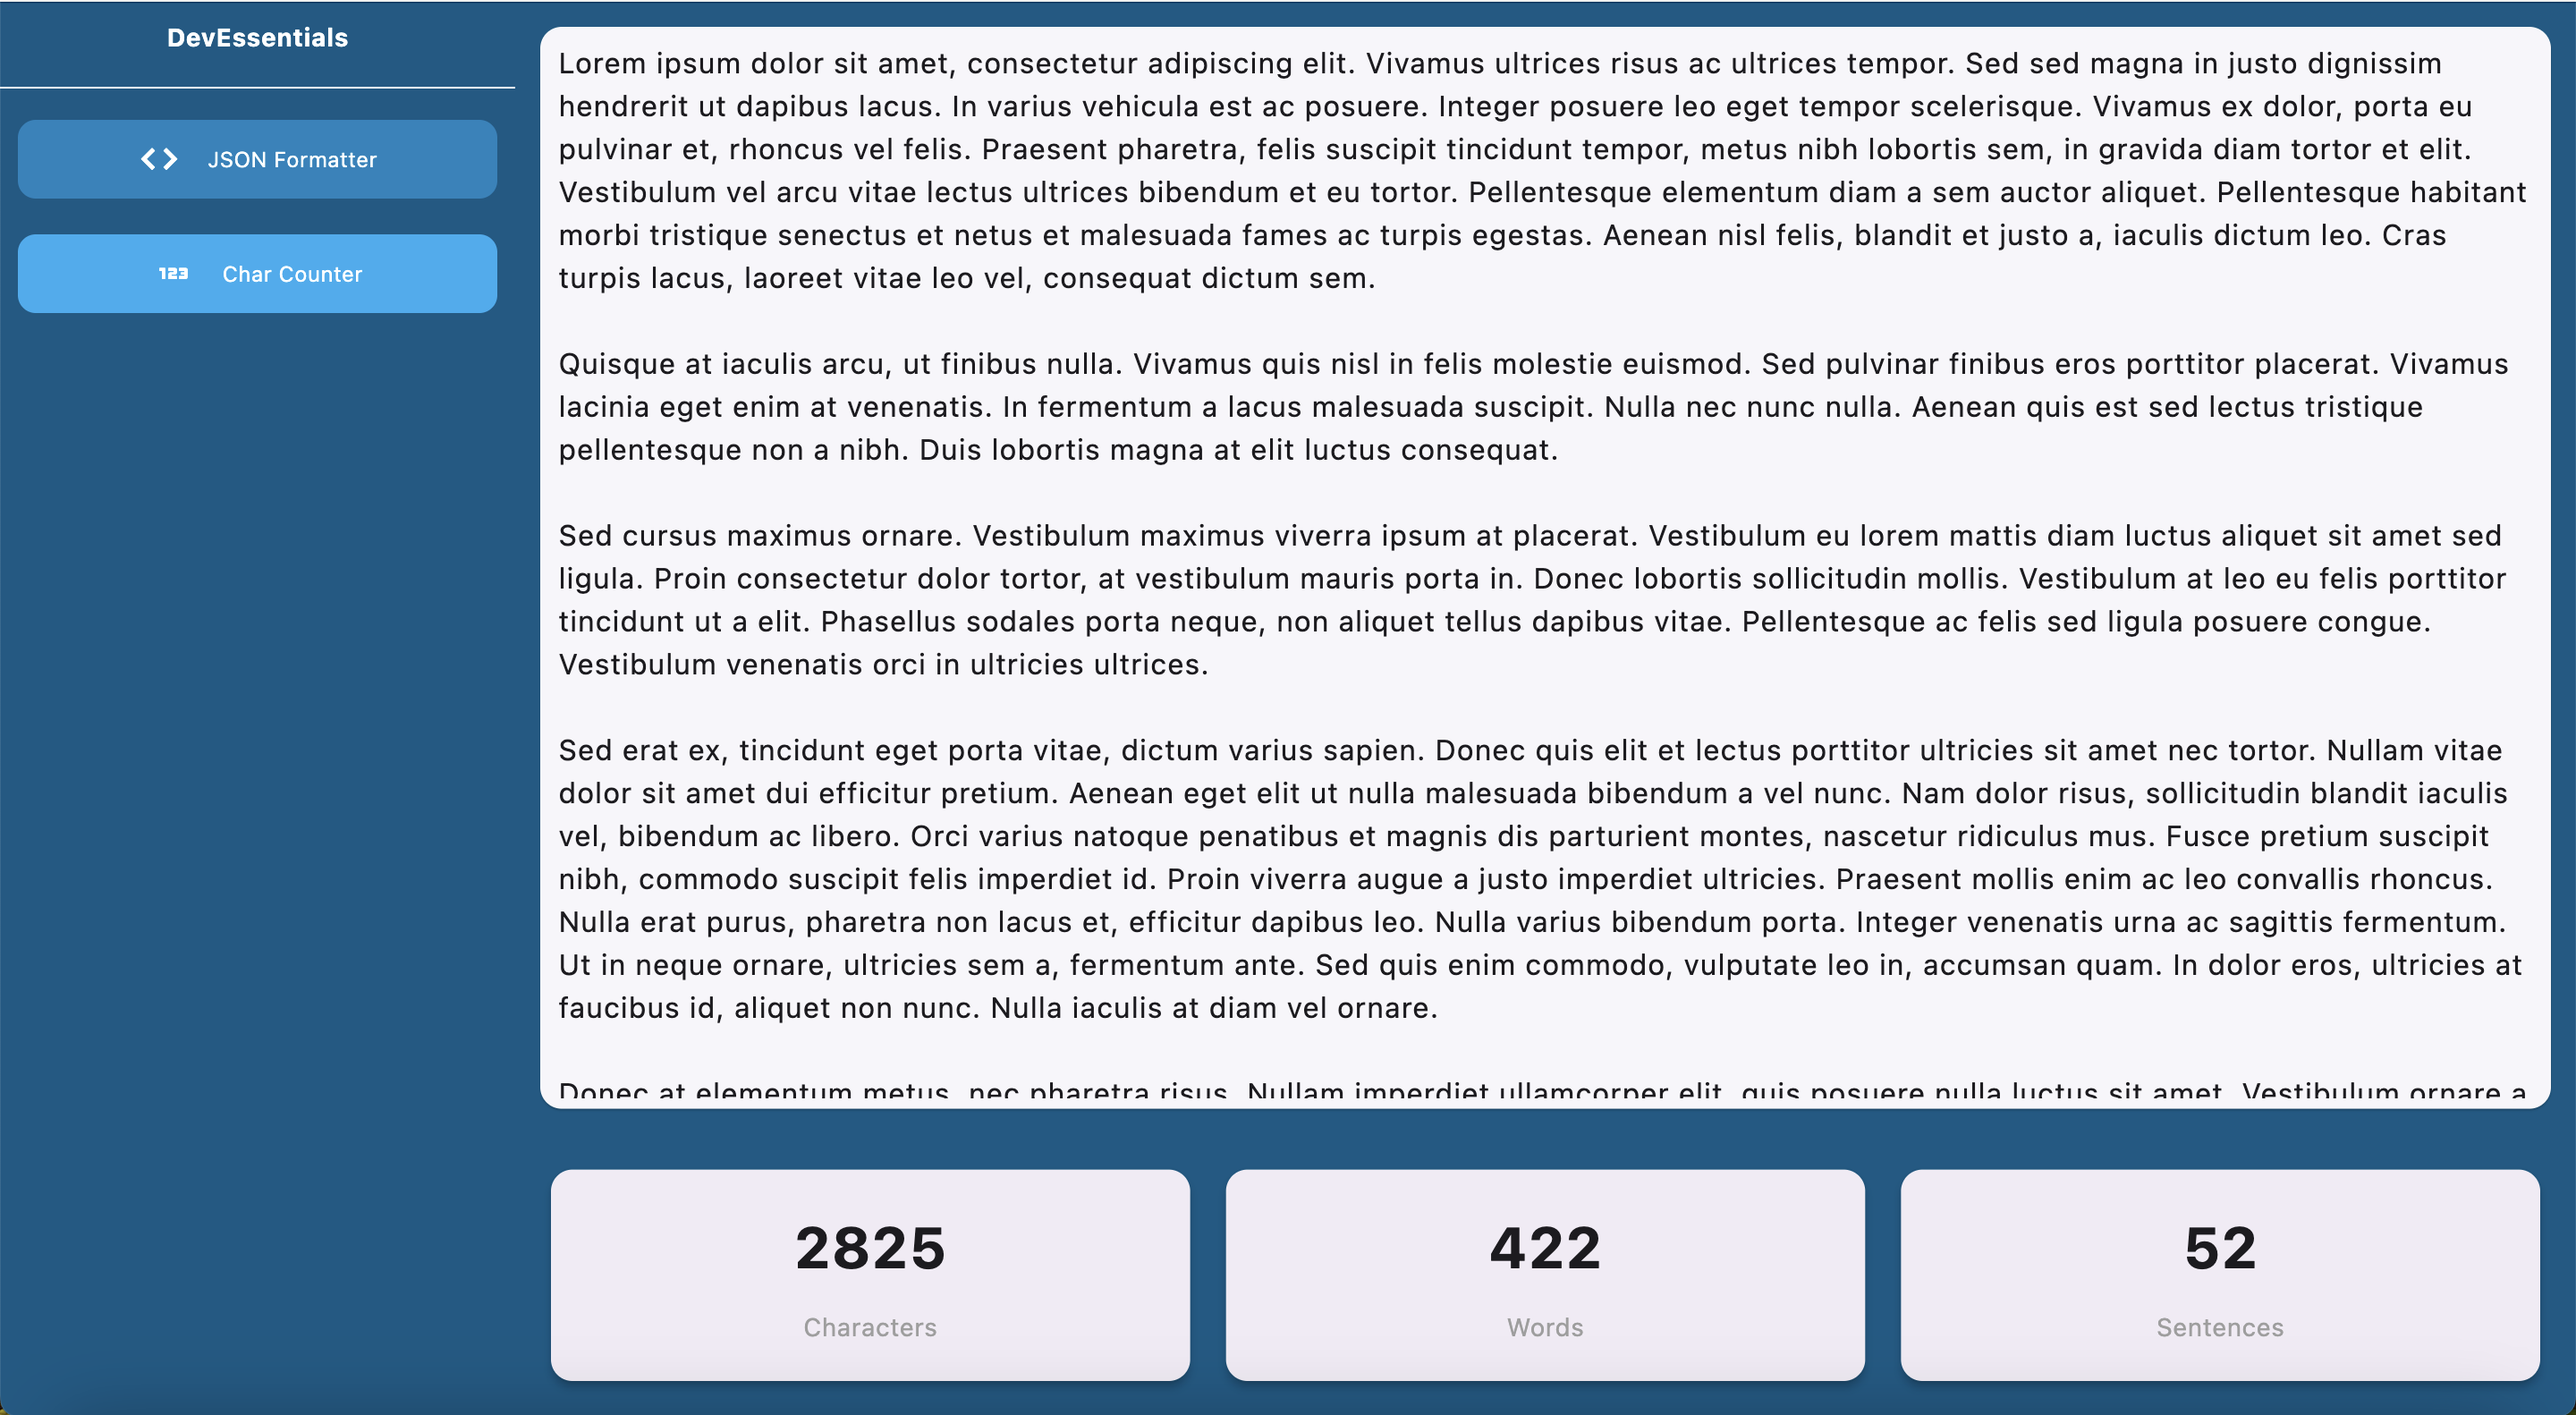
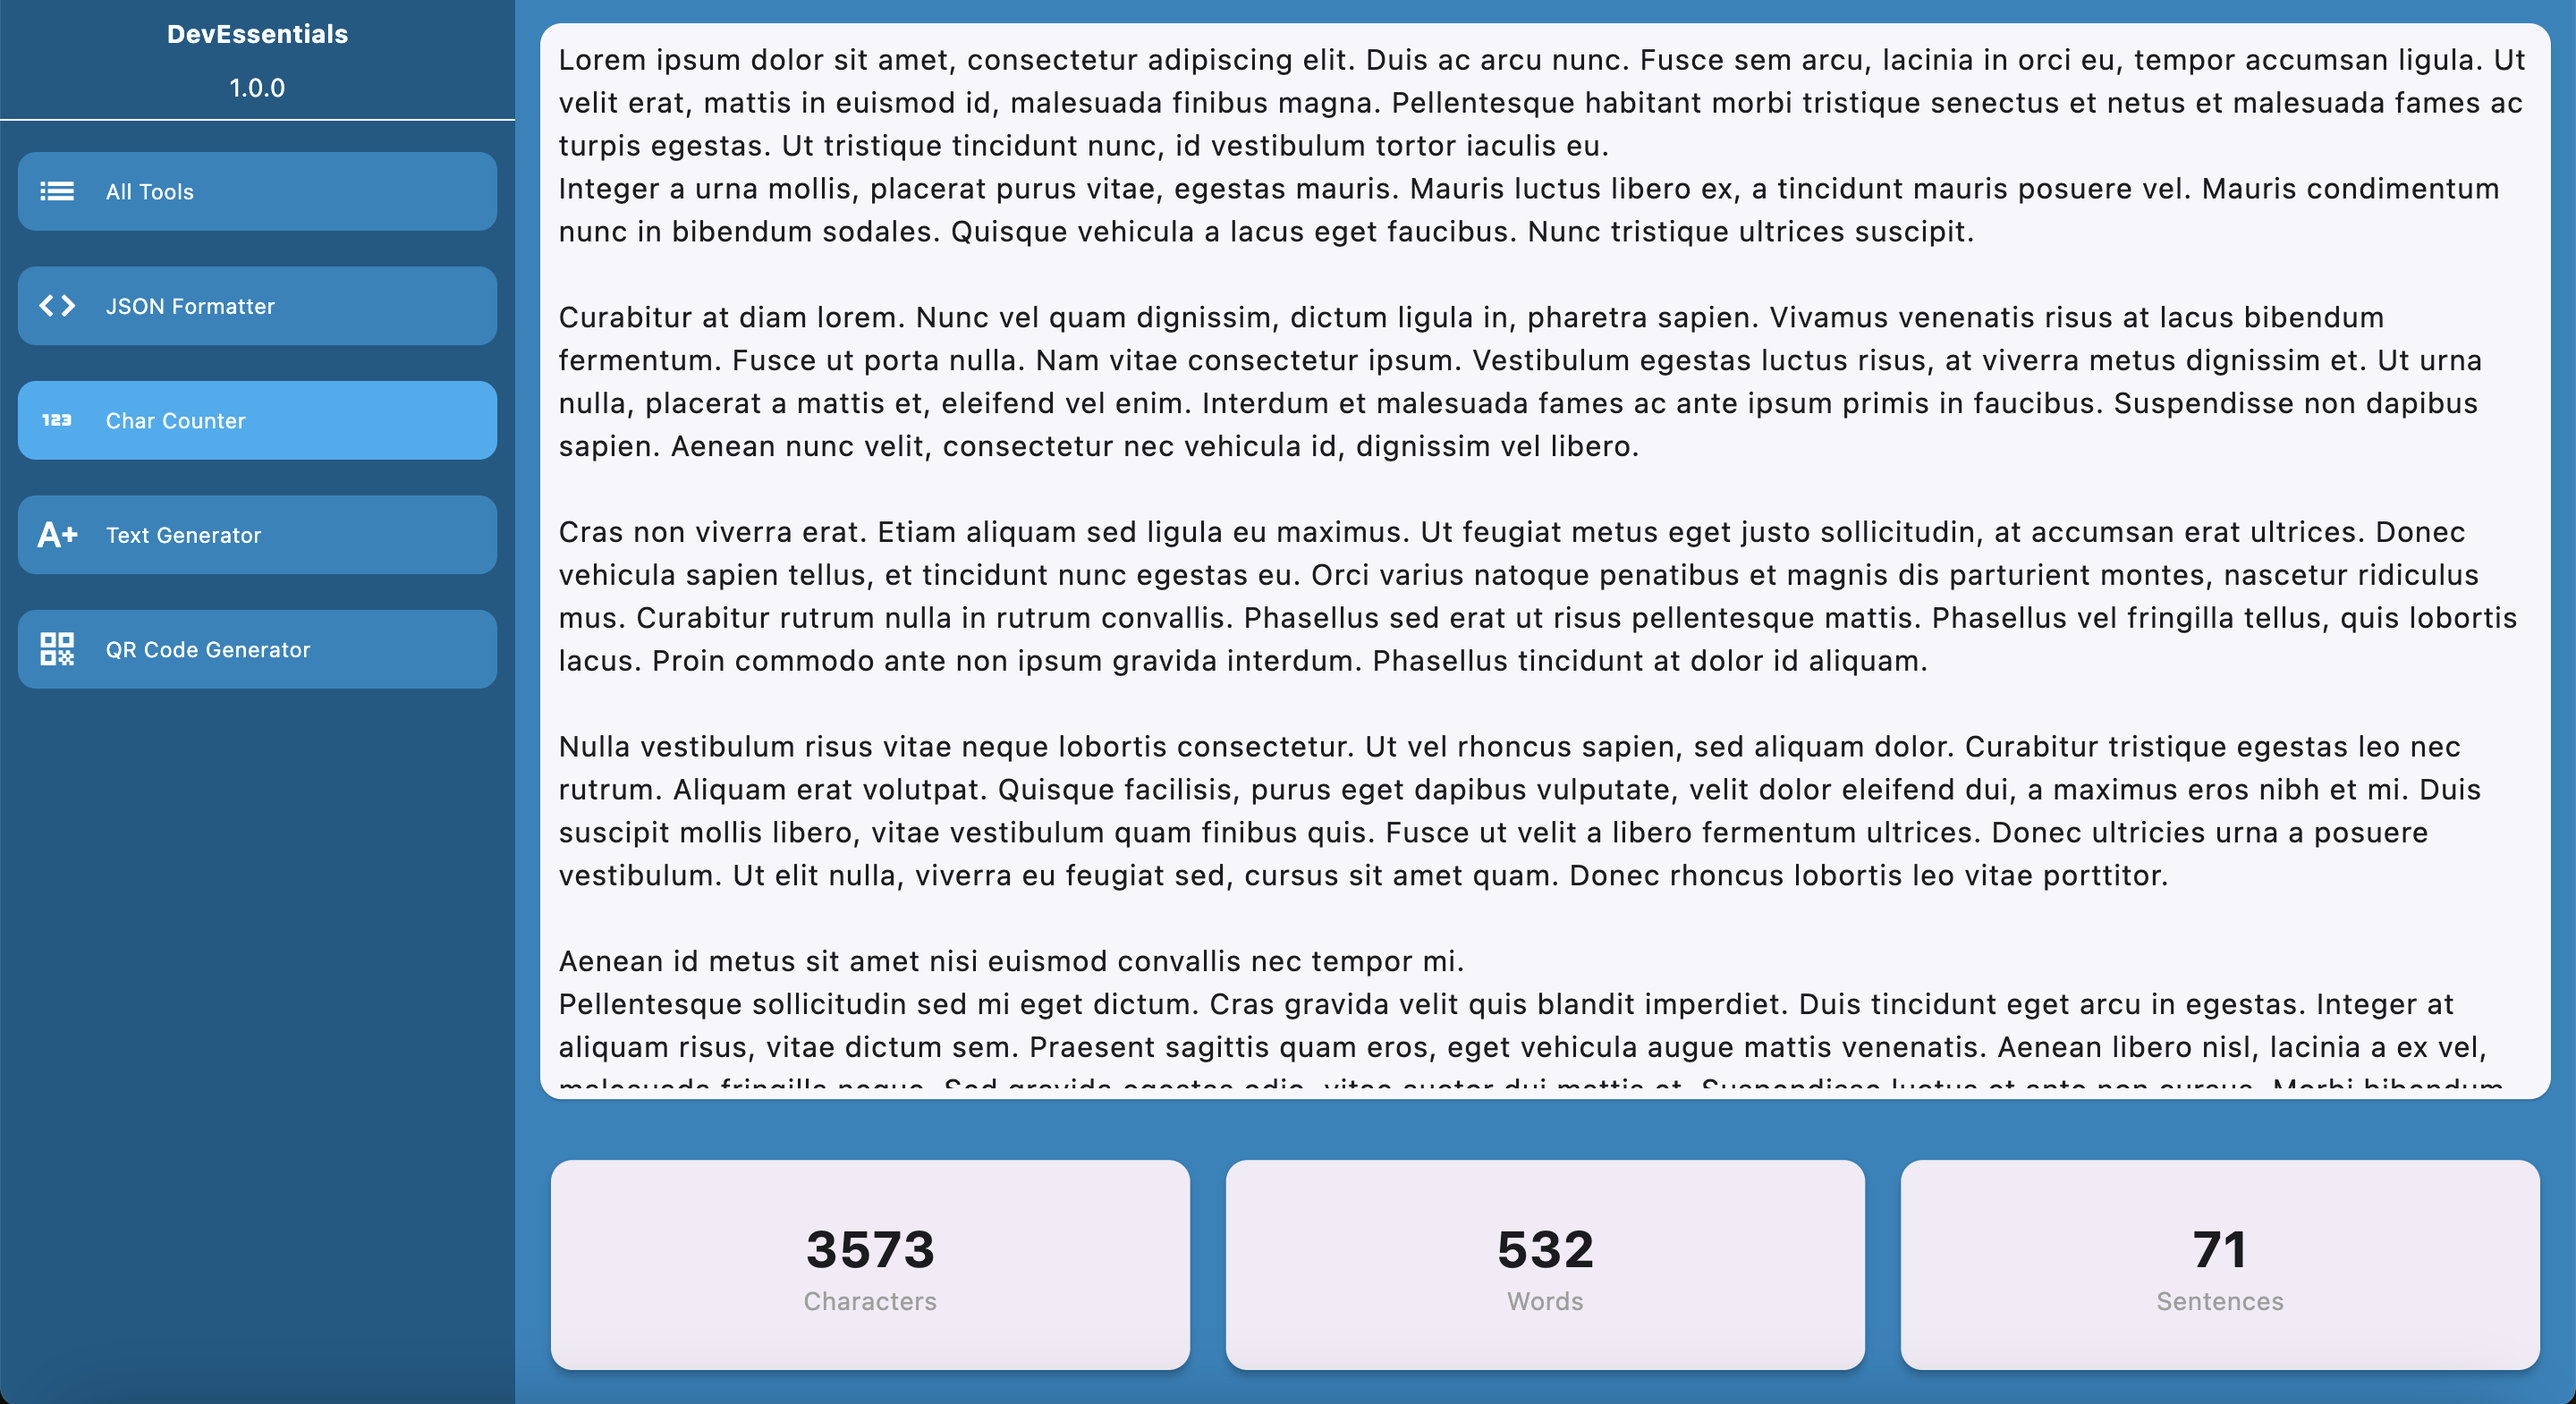
docs: update readme

Changed region(s): [[0.0, 0.0, 1.0, 1.0], [0.0, 0.9987, 0.0312, 1.0]]

diff --git a/README.md b/README.md
@@ -9,6 +9,9 @@
 
 # Screenshots
 
+### All Tools
+![All Tools](./assets/screenshots/all_tools.png)
+
 ### JSON Formatter
 ![JSON Formatter Screen](./assets/screenshots/json_formatter.png)
 
@@ -16,8 +19,10 @@
 ![Char Counter Screen](./assets/screenshots/char_counter.png)
 
 ### QR Code Generator
+![QR Code Generator](./assets/screenshots/qr_code_generator.png)
 
 ### Text Generator
+![Text Generator](./assets/screenshots/text_generator.png)
 
 # Roadmap
 - Color Picker
